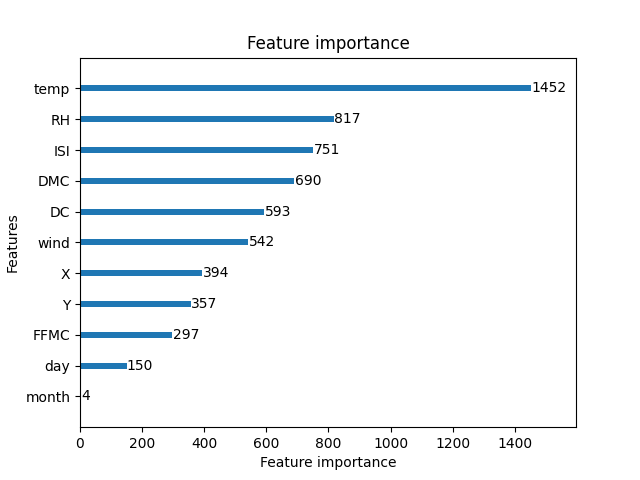
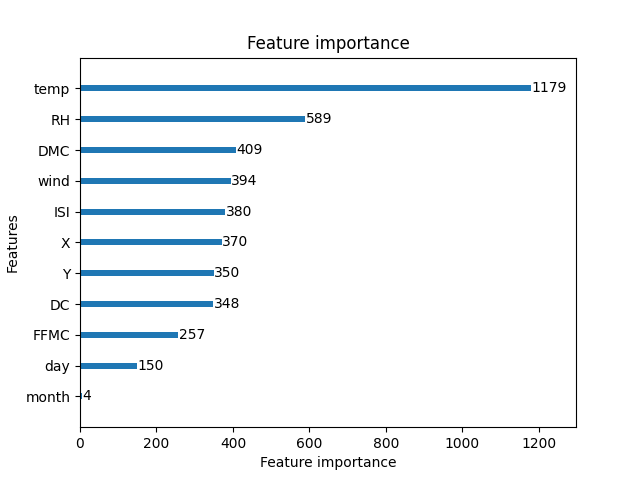
new hyperparams

diff --git a/train.py b/train.py
@@ -10,8 +10,10 @@ df = pd.read_csv(
     index_col=[],
 )
 X, y = preprocess(df, encode=False, categorize=True, preran=False)
+X = X.drop("rain", axis=1)
 d = lgb.Dataset(X, y, silent=True)
 
+# rmse: 98.23778701225294
 params = {
     "objective": "rmse",
     "metric": "rmse",
@@ -19,14 +21,14 @@ params = {
     "n_jobs": 6,
     "learning_rate": 0.004090619790710353,
     "feature_pre_filter": False,
-    "lambda_l1": 1.846285949957257e-08,
-    "lambda_l2": 9.447939398508748,
-    "num_leaves": 31,
+    "lambda_l1": 1.1286303015208678e-08,
+    "lambda_l2": 9.694463982242468,
+    "num_leaves": 11,
     "feature_fraction": 0.8999999999999999,
-    "bagging_fraction": 1.0,
-    "bagging_freq": 0,
+    "bagging_fraction": 0.9949731326113778,
+    "bagging_freq": 1,
     "min_child_samples": 20,
-    "num_boost_round": 434,
+    "num_boost_round": 443,
 }
 
 model = lgb.train(

diff --git a/README.md b/README.md
@@ -1,5 +1,5 @@
 ### Predict forest fires
 
-Validation RMSE: 98.2378
+Validation RMSE is 98.2378.
 
 ![feature importance](figures/feature_importange.png)
